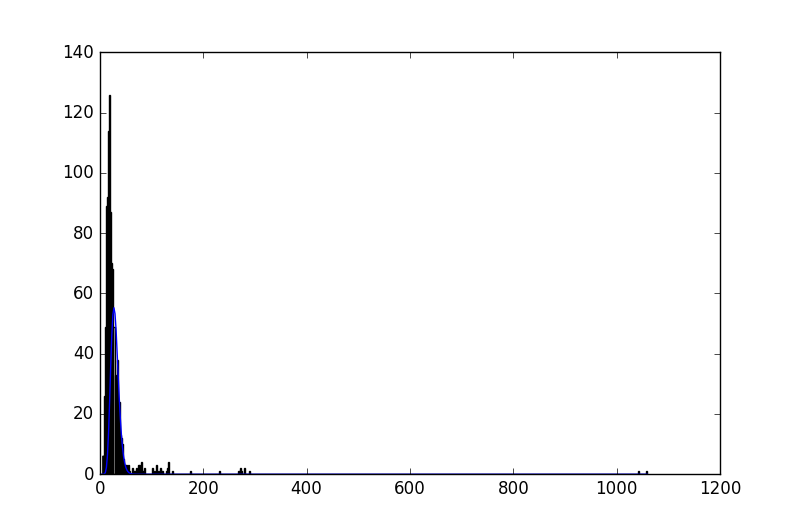
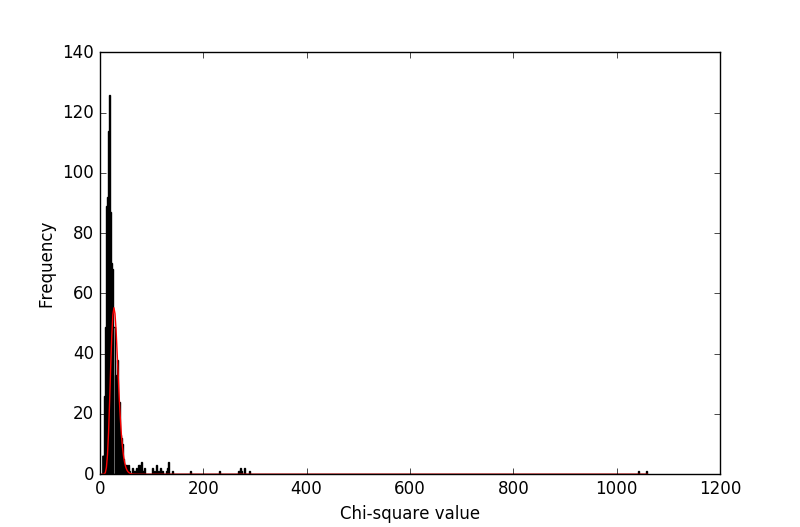
Plot of chi square distribution for 1024-run sample

Changed region(s): [[0.125, 0.5769, 0.1562, 0.8805], [0.4375, 0.9412, 0.5938, 1.0], [0.0312, 0.425, 0.0625, 0.5769]]

diff --git a/Geiger/geigerStats1.py b/Geiger/geigerStats1.py
@@ -308,7 +308,9 @@ plt.hist(csp1024,bins=512,color='lightgrey')
 df = totalDOF-1
 x = numpy.linspace(0,max(csp1024),num=512)
 y = numpy.multiply(chi2.pdf(x,df),1024)
-plt.plot(x,y)
+plt.xlabel("Chi-square value",fontsize=12)
+plt.ylabel("Frequency",fontsize=12)
+plt.plot(x,y,color='red')
 plt.savefig('chisq_1024.png')
 
 #################################### UNUSED CODE ####################################
